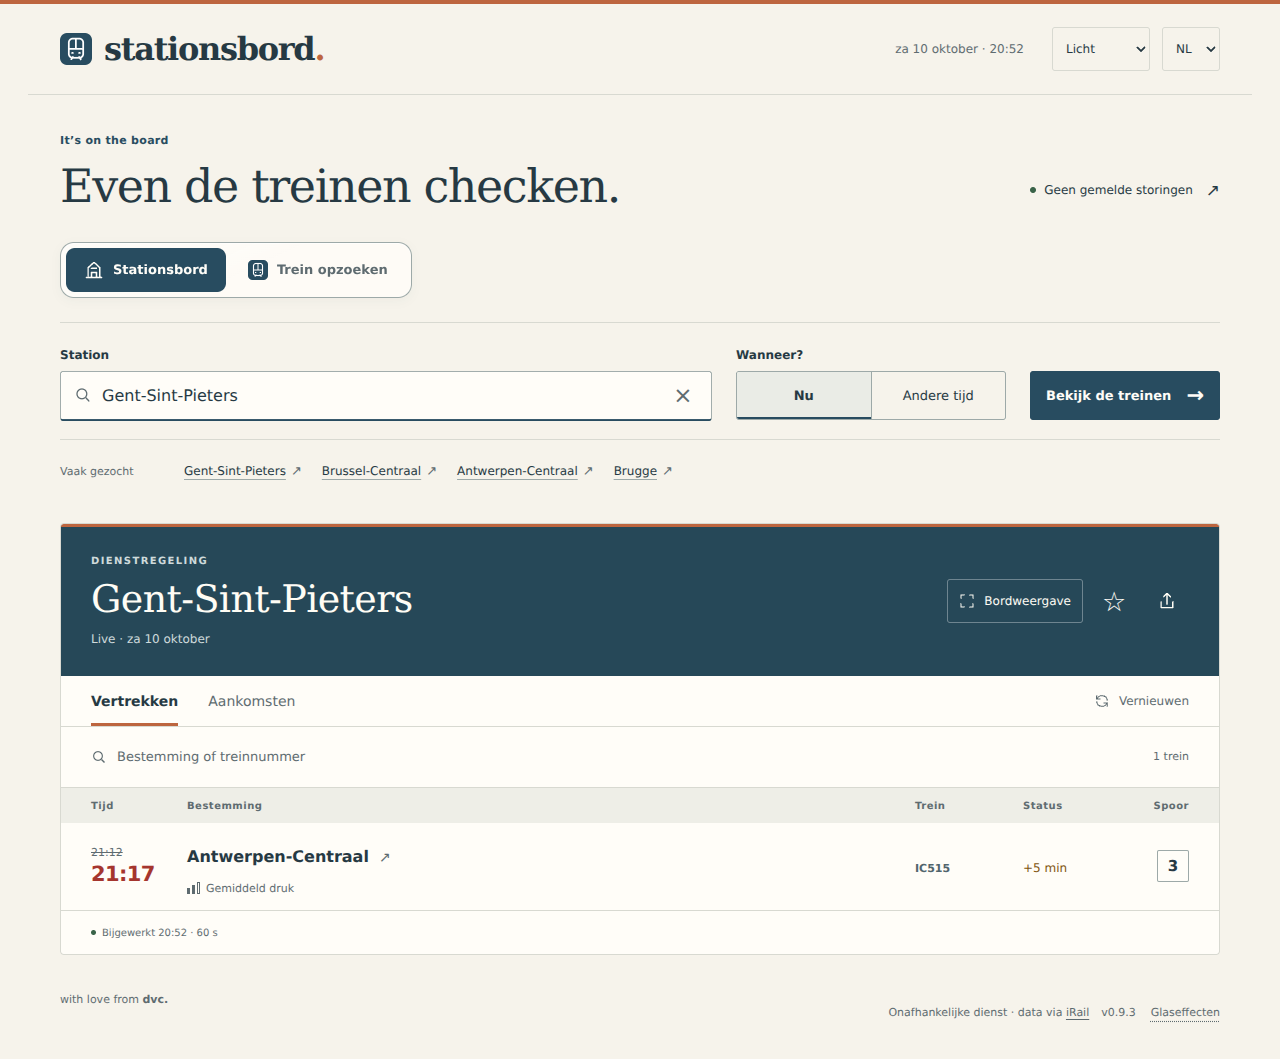
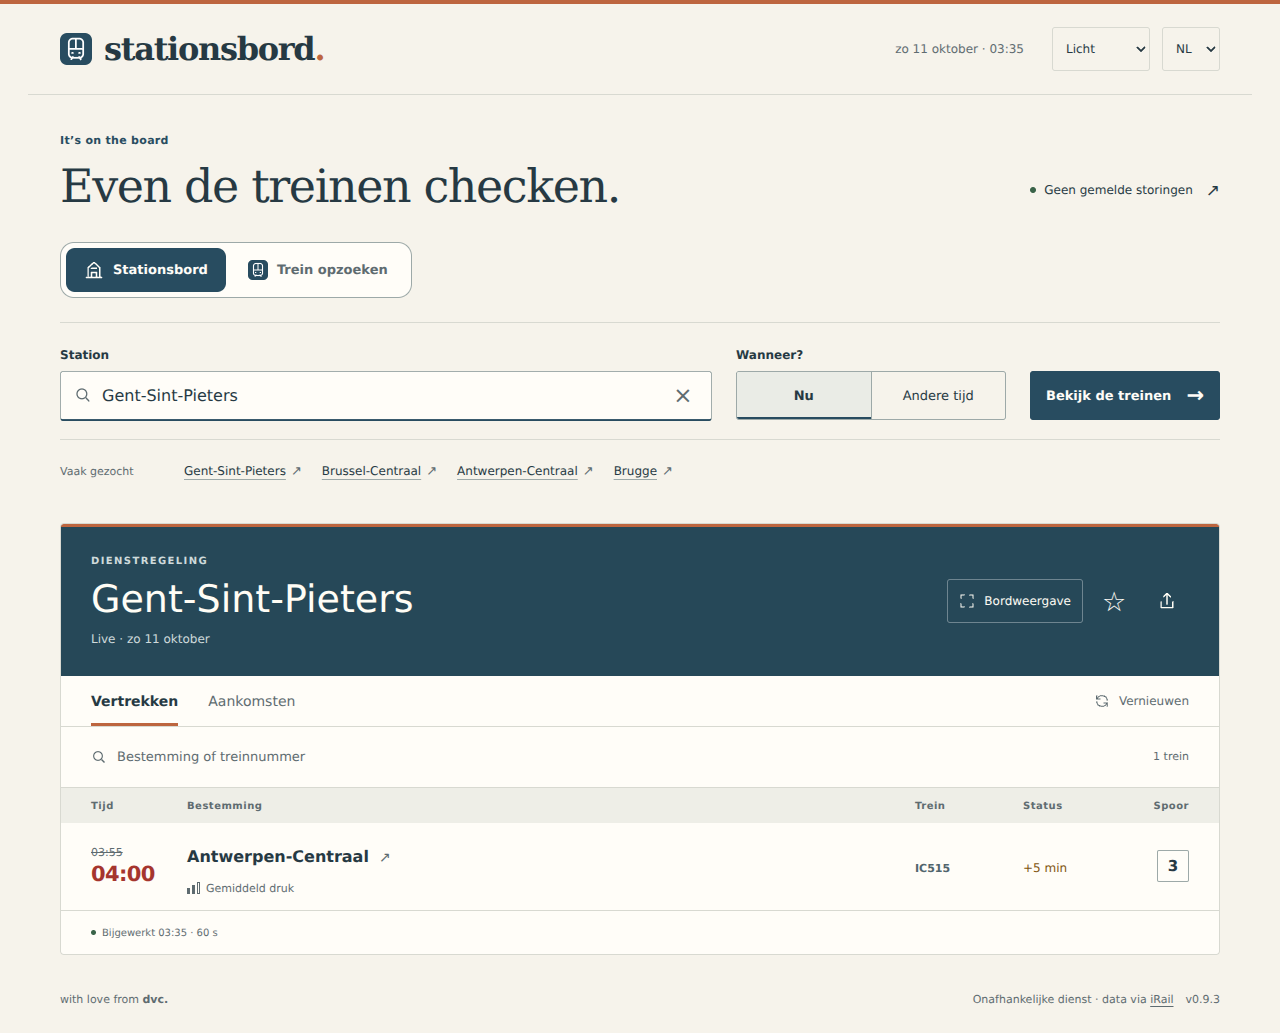
Use Bahnschrift for liveboard stations and remove glass UI

diff --git a/server/src/public/styles.css b/server/src/public/styles.css
@@ -32,6 +32,8 @@
   --sign-text: #fffdf5;
   --sign-muted: #cfdbdc;
   --saved: #f3d2a1;
+  --station-font:
+    "Bahnschrift", -apple-system, BlinkMacSystemFont, "Segoe UI", sans-serif;
   font-family: -apple-system, BlinkMacSystemFont, "Segoe UI", sans-serif;
   font-synthesis: none;
 }
@@ -579,12 +581,12 @@ p {
   font-size: 10px;
 }
 .board-heading h2 {
-  font:
-    normal 38px/1.12 Georgia,
-    "Times New Roman",
-    serif;
+  font-family: var(--station-font);
+  font-size: 38px;
+  font-weight: 400;
+  line-height: 1.12;
   margin: 0;
-  letter-spacing: -0.6px;
+  letter-spacing: 0;
   overflow-wrap: anywhere;
 }
 .board-subtitle {
@@ -847,6 +849,7 @@ p {
 }
 .destination-line > span:first-child {
   min-width: 0;
+  font-family: var(--station-font);
 }
 .row-arrow {
   font-size: 14px;
@@ -1868,11 +1871,8 @@ body:has(dialog[open]) {
   padding: 5px;
   margin-bottom: 24px;
   border-radius: 14px;
-}
-.glass-surface {
   background: var(--white);
   border: 1px solid var(--input-border);
-  box-shadow: 0 2px 5px #142d3208;
 }
 .view-navigation button {
   display: flex;
@@ -1897,24 +1897,6 @@ body:has(dialog[open]) {
 .view-navigation button:hover:not([aria-pressed="true"]) {
   background: var(--soft);
   color: var(--ink);
-}
-@supports (
-  (backdrop-filter: blur(12px)) or (-webkit-backdrop-filter: blur(12px))
-) {
-  :root:not([data-glass="off"]) .glass-surface {
-    background: linear-gradient(155deg, #ffffff50, #ffffff00 55%), #fffdf8de;
-    -webkit-backdrop-filter: blur(12px);
-    backdrop-filter: blur(12px);
-    box-shadow:
-      inset 0 1px 0 #ffffffb0,
-      0 3px 10px #142d320a;
-  }
-  :root[data-theme="dark"]:not([data-glass="off"]) .glass-surface {
-    background: linear-gradient(155deg, #ffffff0c, #ffffff00 55%), #202d32e8;
-    box-shadow:
-      inset 0 1px 0 #ffffff12,
-      0 3px 10px #00000020;
-  }
 }
 .train-workspace,
 .train-panel {
@@ -1966,6 +1948,11 @@ body:has(dialog[open]) {
 .train-actions .icon-button {
   color: var(--ink);
   border-radius: 11px;
+  background: var(--white);
+  border: 1px solid var(--input-border);
+}
+.train-actions .icon-button:hover {
+  background: var(--soft);
 }
 .train-content {
   padding: 12px 28px 28px;
@@ -2027,17 +2014,6 @@ body:has(dialog[open]) {
   color: var(--accent);
   font-weight: 650;
 }
-.glass-toggle {
-  font-size: 11px;
-  padding: 0 0 0 15px;
-  color: var(--muted);
-  text-decoration: underline;
-  text-decoration-style: dotted;
-  text-underline-offset: 4px;
-}
-.glass-toggle[aria-pressed="false"] {
-  text-decoration: line-through;
-}
 body.board-focus .view-navigation {
   display: none;
 }
@@ -2060,17 +2036,6 @@ body.board-focus .view-navigation {
   }
   .train-content {
     padding: 8px 16px 20px;
-  }
-}
-@media (prefers-reduced-transparency: reduce),
-  (prefers-contrast: more),
-  (forced-colors: active) {
-  :root:not([data-glass="off"]) .glass-surface,
-  :root[data-theme="dark"]:not([data-glass="off"]) .glass-surface {
-    background: var(--white);
-    backdrop-filter: none;
-    -webkit-backdrop-filter: none;
-    box-shadow: none;
   }
 }
 @media (forced-colors: active) {

diff --git a/server/src/public/index.html b/server/src/public/index.html
@@ -19,9 +19,9 @@
     <link rel="icon" type="image/svg+xml" href="/mark.svg?v=0.9.3" />
     <link rel="apple-touch-icon" href="/favicon.png?v=0.9.3" />
     <link rel="manifest" href="/site.webmanifest?v=0.9.3" />
-    <script src="/theme.js?v=0.9.3"></script>
-    <link rel="stylesheet" href="/styles.css?v=0.9.3-r2" />
-    <script type="module" src="/app.js?v=0.9.3-r2"></script>
+    <script src="/theme.js?v=0.9.3-r3"></script>
+    <link rel="stylesheet" href="/styles.css?v=0.9.3-r3" />
+    <script type="module" src="/app.js?v=0.9.3-r3"></script>
   </head>
   <body>
     <a class="skip-link" href="#board" data-i18n="skip"
@@ -73,7 +73,7 @@
         </button>
       </div>
       <div
-        class="view-navigation glass-surface"
+        class="view-navigation"
         role="group"
         aria-label="Zoeken"
         id="viewNavigation"
@@ -421,7 +421,7 @@
             <div class="train-actions">
               <button
                 type="button"
-                class="icon-button glass-surface"
+                class="icon-button"
                 id="shareTrain"
                 hidden
                 aria-label="Deel trein"
@@ -432,7 +432,7 @@
               </button>
               <button
                 type="button"
-                class="icon-button glass-surface"
+                class="icon-button"
                 id="refreshTrain"
                 hidden
                 aria-label="Vernieuwen"
@@ -467,16 +467,7 @@
           ><span data-i18n="independent">Onafhankelijke dienst · data via</span>
           <a href="https://irail.be" target="_blank" rel="noopener noreferrer"
             >iRail</a
-          ><span class="footer-version">v0.9.3</span
-          ><button
-            type="button"
-            id="glassToggle"
-            class="glass-toggle"
-            aria-pressed="true"
-            data-i18n="glassEffects"
-          >
-            Glaseffecten
-          </button></span
+          ><span class="footer-version">v0.9.3</span></span
         >
       </footer>
     </main>

diff --git a/server/src/public/theme.js b/server/src/public/theme.js
@@ -23,23 +23,10 @@
       theme === "dark" ? "#182226" : "#f6f3eb";
   }
   apply();
-  function applyGlass() {
-    let enabled = true;
-    try {
-      enabled =
-        JSON.parse(localStorage.getItem("stationsbord.glass")) !== false;
-    } catch {}
-    document.documentElement.dataset.glass = enabled ? "on" : "off";
-    document
-      .getElementById("glassToggle")
-      ?.setAttribute("aria-pressed", String(enabled));
-  }
-  applyGlass();
   system.addEventListener("change", () => {
     if (preference === "system") apply();
   });
   window.addEventListener("storage", (event) => {
-    if (event.key === "stationsbord.glass" || event.key === null) applyGlass();
     if (event.key !== key && event.key !== null) return;
     try {
       const saved = JSON.parse(event.newValue);
@@ -52,17 +39,6 @@
     apply();
   });
   document.addEventListener("DOMContentLoaded", () => {
-    applyGlass();
-    document.getElementById("glassToggle").addEventListener("click", () => {
-      const enabled = document.documentElement.dataset.glass !== "on";
-      document.documentElement.dataset.glass = enabled ? "on" : "off";
-      document
-        .getElementById("glassToggle")
-        .setAttribute("aria-pressed", String(enabled));
-      try {
-        localStorage.setItem("stationsbord.glass", JSON.stringify(enabled));
-      } catch {}
-    });
     const select = document.getElementById("themeSelect");
     select.value = preference;
     select.addEventListener("change", () => {

diff --git a/server/src/public/i18n.js b/server/src/public/i18n.js
@@ -17,7 +17,6 @@ export const messages = {
     journeyEnded: "Geen volgende halte meer gemeld.",
     trainNotFound:
       "Geen rit gevonden voor deze trein op deze datum. Probeer een andere datum of een ander treinnummer.",
-    glassEffects: "Glaseffecten",
     skipTrain: "Naar de treindetails",
 
     manageSaved: "Bewerken",
@@ -179,7 +178,6 @@ export const messages = {
     journeyEnded: "No further stop reported.",
     trainNotFound:
       "No journey found for this train on this date. Try another date or train number.",
-    glassEffects: "Glass effects",
     skipTrain: "Skip to train details",
 
     manageSaved: "Edit",
@@ -340,7 +338,6 @@ export const messages = {
     journeyEnded: "Aucun prochain arrêt annoncé.",
     trainNotFound:
       "Aucun trajet trouvé pour ce train à cette date. Essayez une autre date ou un autre numéro.",
-    glassEffects: "Effets de verre",
     skipTrain: "Aller aux détails du train",
 
     manageSaved: "Modifier",
@@ -503,7 +500,6 @@ export const messages = {
     journeyEnded: "Kein weiterer Halt gemeldet.",
     trainNotFound:
       "Keine Fahrt für diesen Zug an diesem Datum gefunden. Versuche ein anderes Datum oder eine andere Zugnummer.",
-    glassEffects: "Glaseffekte",
     skipTrain: "Zu den Zugdetails",
 
     manageSaved: "Bearbeiten",

diff --git a/server/src/public/app.js b/server/src/public/app.js
@@ -9,7 +9,7 @@ import {
   renderStopList,
   stopEvents,
 } from "./train-details.js?v=0.9.3";
-import { languages, messages } from "./i18n.js?v=0.9.3-r2";
+import { languages, messages } from "./i18n.js?v=0.9.3-r3";
 import {
   asArray,
   escapeHtml as h,

diff --git a/README.md b/README.md
@@ -30,7 +30,7 @@ Use **Find a train** for a separate lookup by train number (for example `510`, `
 - Dutch, French, German and English interfaces.
 - Choose System, Light or Dark appearance in the header. System follows your device; an explicit choice is remembered in your browser.
 - A full-width station board with warm paper colours, ink-blue signage and a matching dark appearance.
-- Restrained glass accents on view navigation and train actions, with opaque timetable rows. Glass effects can be disabled in the footer; reduced transparency, increased contrast and forced-colour preferences use solid surfaces automatically where supported. Unsupported browsers also use solid surfaces.
+- Opaque navigation and train actions, with Bahnschrift for station headings and destination/origin names on the liveboard where the font is installed. Other devices use the system sans-serif fallback; see the typography notes below.
 - Filter the loaded trains by destination (or origin for arrivals) and train number. Filtering keeps cancelled services visible when they match.
 - Use Board view to hide the search area while watching the live timetable. Press Escape outside a field to return, or use the button.
 - Keyboard station selection, native date/time pickers and accessible train-detail dialogs are supported.
@@ -38,6 +38,24 @@ Use **Find a train** for a separate lookup by train number (for example `510`, `
 Train times and tracks may change or differ from the displayed information. Check station boards and announcements or the SNCB app before departure. This reminder appears in the train composition section, including when composition data is unavailable.
 
 Stationsbord is an independent service. Schedule availability depends on iRail/NMBS; searches far into the past or future may not be available. Train composition is queried only for today, because that endpoint does not accept a service date. Cached or failed refreshes are explicitly labelled rather than presented as fresh data.
+
+## Station typography
+
+Liveboard station headings and destination/origin names request **Bahnschrift**,
+Microsoft's DIN 1451 digitization. It is supplied with Windows 10/11; devices
+without an installed copy use their system sans-serif font. Other headings,
+times and controls retain their existing fonts.
+
+Microsoft allows referencing the installed font in CSS, but the Windows font
+licence does not allow copying its files into the repository, hosting them or
+converting them into webfonts. For the exact face on iOS, iPadOS and other
+platforms, supply either a licensed self-hosted webfont or a Bahnschrift
+[Adobe Fonts web project](https://fonts.adobe.com/fonts/bahnschrift). The font
+files are not bundled. An Adobe project would also need its specific stylesheet
+and font origins added to the existing Content Security Policy.
+
+Sources: [Bahnschrift](https://learn.microsoft.com/en-us/typography/font-list/bahnschrift)
+and [Microsoft font redistribution FAQ](https://learn.microsoft.com/en-us/typography/fonts/font-faq).
 
 ## Run locally
 

diff --git a/docs/previews/v0.9.3/README.md b/docs/previews/v0.9.3/README.md
@@ -1,4 +1,4 @@
-# v0.9.3 — train lookup and quiet glass accents
+# v0.9.3 — train lookup and station typography
 
 The station board and train-number lookup are separate views. The lookup accepts
 plain train numbers such as 510, 8013 and 69, supports today or another date,
@@ -8,10 +8,16 @@ station board, using the stop's scheduled time for custom dates. Sharing
 preserves the requested number, language and date without a time parameter.
 The navigation button and empty state reuse the original favicon asset.
 
-Glass accents are limited to navigation and small train actions. Timetable rows
-remain opaque. The footer toggle persists locally; reduced-transparency,
-increased-contrast and forced-colour preferences use solid surfaces where
-supported. Browsers without backdrop-filter use the same solid fallback.
+Navigation and train actions use solid, opaque surfaces. The former effect
+control, preference handling, translations and backdrop-filter styles have
+been removed. Light/dark/system appearance and the forced-colour selected-state
+outline remain available.
+
+Liveboard station headings and destination/origin names use Bahnschrift when
+installed, with a system sans-serif fallback otherwise. The screenshots were
+captured on Linux without Bahnschrift and therefore show that fallback. Exact
+cross-platform typography needs a licensed webfont or Adobe Fonts web project;
+see the [typography notes](../../../README.md#station-typography).
 
 I11 AUH and BVUH match the stored original A/B drawings. OTC services select
 Ouigo A/B artwork; other services retain standard I11 artwork. The BDx cab coach
@@ -39,7 +45,9 @@ demonstrate behavior and do not assert actual formations or live status.
 - Browser workflows cover plain train numbers, date-only shared-link
   restoration, stop-to-board navigation, 404/retry, composition retry,
   discarded older requests, wrong-day rejection, invalid input, static planned
-  searches and persistent/OS glass preferences. Numeric searches still resolve
+  searches and persistent/system light/dark preferences. Solid navigation and
+  train actions, obsolete saved preferences, blocked browser storage, and
+  forced-colour selected states were checked. Numeric searches still resolve
   the correct OTC/Ouigo composition internally. No application page/CSP errors.
 - A focused regression checks failed resubmissions of an already loaded lookup
   in both live and planned modes. The route and composition remain visible,
